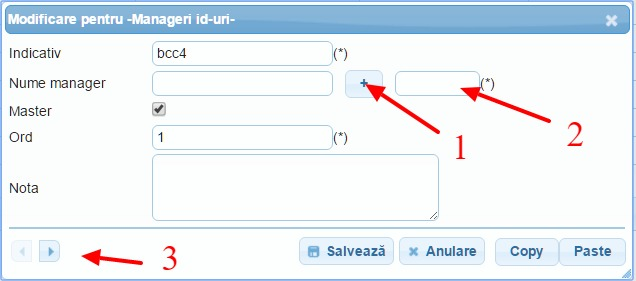
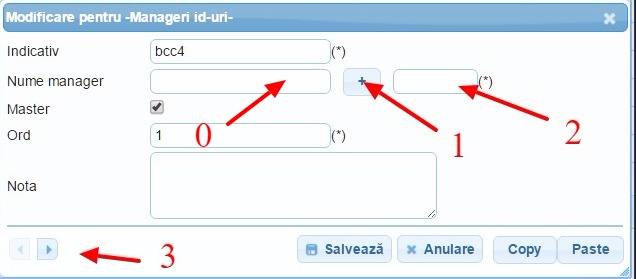
_

diff --git a/docs/apps/grid.rst b/docs/apps/grid.rst
@@ -35,19 +35,33 @@ Gridul este frecvent folosit in aplicatii pentru vizualizare, cautare, adaugare 
 **(8) Total inregistrari:**
    Numarul inregistrarilor(dupa filtrare) care pot fi vazute in grid. In figura, numarul este 14.
 
-**Operatiuni in grid** (declansate de butoanele din **Zona de butoane(6)**)
+**Operatiuni in grid** (declansate de butoanele din **Zona de butoane(6)**):
 
- - Adauga/Editeaza
 
-   .. image:: static/res_img/grid_edit.jpeg
-      :width: 420pt
-      :name: grid_edit
 
-   Fereastra de adaugare este foarte asemanatoare cu cea de editare. Difera titlul si butoanele de navigare in grid(3). Pentru adaugare, apare in titlu **Adaugare ...** iar la editare apare **Modificare ...**. Butoanele de navigare apar doar la editare. Fereastra de editare(adaugare) se deschide ca un dialog modal [#]. Poate fi mutata in orice pozitie a suprafetei de afisare. Dupa fiecare salvare se poate observa in grid, randul actualizat. Campurile obligatorii de completat, sunt marcate cu **(*)**.
+.. image:: static/res_img/grid_edit.jpeg
+   :width: 420pt
+   :name: grid_edit
+
+Adauga/Editeaza
    
-   Campul `Nume manager` din figura, are cateva particularitati, respectiv butonul 1 si campul needitabil 2. Prezenta acestor elemente indica faptul ca tabelul pe care il editam este in legatura cu un alt tabel.
-
+   Fereastra de adaugare este foarte asemanatoare cu cea de editare. Difera titlul si butoanele de navigare in grid(3). Pentru adaugare, apare in titlu **Adaugare ...** iar la editare apare **Modificare ...**. Butoanele de navigare apar doar la editare. Fereastra de editare(adaugare) se deschide ca un dialog modal [#]_. Poate fi mutata in orice pozitie a suprafetei de afisare. Dupa fiecare salvare se poate observa in grid, randul actualizat. Campurile obligatorii de completat, sunt marcate cu **(*)**.
  
+    Campul `Nume manager` din figura, are cateva particularitati, respectiv butonul 1 si campul needitabil 2. Prezenta acestor elemente indica faptul ca tabelul pe care il editam este in legatura cu un alt tabel. Fie A tabelul editat si B, tabelul cu care se conecteaza A. Pentru editare camp `Nume manager`:
+
+    - Click pe elementul 0 si se tasteaza informatia dorita. Apare lista cu randurile din B. Pe masura ce se tasteaza, lista devine mai scurta.
+    - Se selecteaza linia dorita din lista. Elementul 2 se completeaza automat cu id-ul randului din tabelul B.
+    - Daca nu se gaseste informatia in lista(poate trebuie adaugata in tabelul B), click pe butonul 1. Se deschide o fereastra care contine gridul atasat tabelului B. Se cauta, editeaza sau adauga informatia dorita, dupa care dubluclick pe randul corespunzator informatiei si fereastra se inchide, elementele 0 si 2 se completeaza automat.
+    - Dupa salvare, randului editat in tabelul A, i s-a atasat randul selectat in tabelul B.
+
+      .. admonition:: Important
+      
+         Daca elementul 2 nu e completat, campul `Nume manager` se considera nul.
+
+   Butoanele Copy si Paste, ajuta la editarea randurilor similare.
+
+
+.. [#] Folosim termenul **eveniment**, pentru orice mesaj trimis de catre comunicator.  
 
 
    
